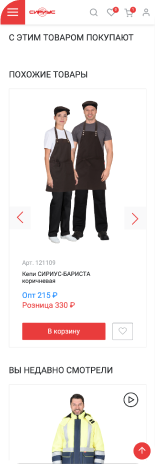
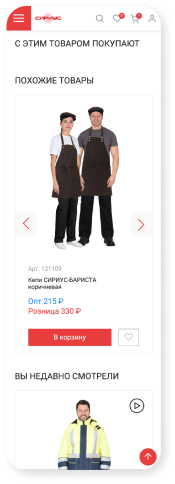
1208-1800

diff --git a/src/js/files/sliders.js b/src/js/files/sliders.js
@@ -28,12 +28,12 @@ import "../../scss/base/swiper.scss";
 function initSliders() {
 //Список слайдеров
 //Проверяем, есть ли слайдер на странице
-	if (document.querySelector('.swiper')) { //Указываем класс нужного слайдера
+	if (document.querySelector('.marestes__slider')) { //Указываем класс нужного слайдера
 //Создаем слайдер
-		new Swiper('.swiper', { //Указываем класс нужного слайдера
+		new Swiper('.marestes__slider', { //Указываем класс нужного слайдера
             //Подключаем модули слайдера
             //для конкретного случая
-			modules: [Navigation],
+			// modules: [Navigation],
 			observer: true,
 			observeParents: true,
 			slidesPerView: 1,
@@ -41,64 +41,101 @@ function initSliders() {
 			//autoHeight: true,
 			speed: 800,
 
-			//touchRatio: 0,
-			//simulateTouch: false,
-			//loop: true,
-			//preloadImages: false,
-			//lazy: true,
-
-			/*
-			// Эффекты
-			effect: 'fade',
-			autoplay: {
-				delay: 3000,
-				disableOnInteraction: false,
-			},
-			*/
-
-			// Пагинация
-			/*
-			pagination: {
-				el: '.swiper-pagination',
-				clickable: true,
-			},
-			*/
-
-			// Скроллбар
-			/*
-			scrollbar: {
-				el: '.swiper-scrollbar',
-				draggable: true,
-			},
-			*/
+		
 
 			// Кнопки "влево/вправо"
-			navigation: {
-				prevEl: '.swiper-button-prev',
-				nextEl: '.swiper-button-next',
-			},
-			/*
+			// navigation: {
+			// 	prevEl: '.swiper-button-prev',
+			// 	nextEl: '.swiper-button-next',
+			// },
+			
 			// Брейкпоинты
 			breakpoints: {
-				640: {
-					slidesPerView: 1,
-					spaceBetween: 0,
-					autoHeight: true,
+				300: {
+					slidesPerView: 1.4,
+					spaceBetween: 15,
+					loop: true,
+					// autoHeight: true,
 				},
-				768: {
-					slidesPerView: 2,
-					spaceBetween: 20,
-				},
-				992: {
+				// 640: {
+				// 	slidesPerView: 1.4,
+				// 	spaceBetween: 15,
+				// },
+				468: {
 					slidesPerView: 3,
 					spaceBetween: 20,
+					loop: true,
+				},
+				992: {
+					slidesPerView: 4,
+					spaceBetween: 20,
+					loop: true,
+					// autoHeight:true
 				},
 				1268: {
-					slidesPerView: 4,
-					spaceBetween: 30,
+					slidesPerView: 5,
+					spaceBetween: 20,
 				},
 			},
-			*/
+			
+			// События
+			on: {
+
+			}
+		});
+	}
+	if (document.querySelector('.sirius__slider')) { //Указываем класс нужного слайдера
+//Создаем слайдер
+		new Swiper('.sirius__slider', { //Указываем класс нужного слайдера
+            //Подключаем модули слайдера
+            //для конкретного случая
+			// modules: [Navigation],
+			observer: true,
+			observeParents: true,
+			slidesPerView: 'auto',
+			spaceBetween: 5,
+			//autoHeight: true,
+			speed: 800,
+			loop:true,
+
+		
+
+			// Кнопки "влево/вправо"
+			// navigation: {
+			// 	prevEl: '.swiper-button-prev',
+			// 	nextEl: '.swiper-button-next',
+			// },
+			
+			// Брейкпоинты
+			// breakpoints: {
+			// 	300: {
+			// 		slidesPerView: 1.4,
+			// 		spaceBetween: 0,
+			// 		loop: true,
+			// 		// autoHeight: true,
+			// 	},
+			// 	// 640: {
+			// 	// 	slidesPerView: 1.4,
+			// 	// 	spaceBetween: 15,
+			// 	// },
+			// 	468: {
+			// 		slidesPerView: 2.91,
+			// 		spaceBetween: 0,
+			// 		loop: true,
+			// 	},
+			// 	992: {
+			// 		slidesPerView: 5,
+			// 		spaceBetween: 0,
+			// 		loop: true,
+					
+			// 		// autoHeight:true
+			// 	},
+			// 	1268: {
+			// 		slidesPerView: 7,
+			// 		spaceBetween: 0,
+			// 	},
+			// },
+			
 			// События
 			on: {
 

diff --git a/src/Sirius.html b/src/Sirius.html
@@ -337,7 +337,32 @@
 				<section class="page__options options">
 					<div class="options__container cnt">
 						<div class="options__item">
-							<div class="options__galery">
+							<div class="options__slider sirius__slider swiper">
+								<div class="options__wrapper swiper-wrapper">
+									<div class="options__slide options__img swiper-slide">
+										<img src="@img/Sirius/screenshots/s-s-01.png" alt="Image" />
+									</div>
+									<div class="options__slide options__img swiper-slide">
+										<img src="@img/Sirius/screenshots/s-s-02.png" alt="Image" />
+									</div>
+									<div class="options__slide options__img swiper-slide">
+										<img src="@img/Sirius/screenshots/s-s-03.png" alt="Image" />
+									</div>
+									<div class="options__slide options__img swiper-slide">
+										<img src="@img/Sirius/screenshots/s-s-04.png" alt="Image" />
+									</div>
+									<div class="options__slide options__img swiper-slide">
+										<img src="@img/Sirius/screenshots/s-s-05.png" alt="Image" />
+									</div>
+									<div class="options__slide options__img swiper-slide">
+										<img src="@img/Sirius/screenshots/s-s-06.png" alt="Image" />
+									</div>
+									<div class="options__slide options__img swiper-slide">
+										<img src="@img/Sirius/screenshots/s-s-07.png" alt="Image" />
+									</div>
+								</div>
+							</div>
+							<!-- <div class="options__galery">
 								<div class="options__img">
 									<img src="@img/Sirius/screenshots/s-s-01.png" alt="Image" />
 								</div>
@@ -359,7 +384,7 @@
 								<div class="options__img">
 									<img src="@img/Sirius/screenshots/s-s-07.png" alt="Image" />
 								</div>
-							</div>
+							</div> -->
 						</div>
 					</div>
 				</section>

diff --git a/src/Marestes.html b/src/Marestes.html
@@ -387,7 +387,26 @@
 								Мы учли мобильные UX/UI требования, чтобы обеспечить одинаково приятный опыт
 								независимо от устройства.
 							</p>
-							<div class="options__galery">
+							<div class="options__slider marestes__slider swiper">
+								<div class="options__wrapper  swiper-wrapper">
+									<div class="options__slide options__img swiper-slide">
+										<img src="@img/Marestes/options/01.png" alt="Image" />
+									</div>
+									<div class="options__slide options__img swiper-slide">
+										<img src="@img/Marestes/options/02.png" alt="Image" />
+									</div>
+									<div class="options__slide options__img swiper-slide">
+										<img src="@img/Marestes/options/03.png" alt="Image" />
+									</div>
+									<div class="options__slide options__img swiper-slide">
+										<img src="@img/Marestes/options/04.png" alt="Image" />
+									</div>
+									<div class="options__slide options__img swiper-slide">
+										<img src="@img/Marestes/options/05.png" alt="Image" />
+									</div>
+								</div>
+							</div>
+							<!-- <div class="options__galery">
 								<div class="options__img">
 									<img src="@img/Marestes/options/01.png" alt="Image" />
 								</div>
@@ -403,7 +422,7 @@
 								<div class="options__img">
 									<img src="@img/Marestes/options/05.png" alt="Image" />
 								</div>
-							</div>
+							</div> -->
 						</div>
 					</div>
 				</section>

diff --git a/src/js/app.js b/src/js/app.js
@@ -168,7 +168,7 @@ flsForms.formFieldsInit({
 Документация плагина: https://swiperjs.com/
 Сниппет(HTML): swiper
 */
-// import "./files/sliders.js";
+ import "./files/sliders.js";
 
 // ========================================================================================================================================================================================================================================================
 // Модули работы с прокруткой страницы ========================================================================================================================================================================================================================================================

diff --git a/src/scss/sirius.scss b/src/scss/sirius.scss
@@ -285,20 +285,25 @@
 			}
 
 			&__galery {
-				gap: 1.125rem;
-				justify-content: space-between;
-				align-items: center;
+				// gap: 1.125rem;
+				// justify-content: space-between;
+				// align-items: center;
 			}
 
 			&__img {
-				box-shadow: 0.25rem 0.25rem 0.625rem 0 rgba(0, 0, 0, 0.15);
-				border-radius: 1.25rem;
+				// overflow: hidden;
+				// padding: 10px;
+				img {
+					// box-shadow: 0.25rem 0.25rem 0.625rem 0 rgba(0, 0, 0, 0.15);
+					// border-radius: 1.25rem;
+
+				}
 				&[class] {
-					flex: 0 0 auto;
+					// flex: 0 0 auto;
 				}
 				&_iphone {
-					box-shadow: initial;
-					border-radius: initial;
+					// box-shadow: initial;
+					// border-radius: initial;
 				}
 			}
 		}

diff --git a/src/scss/marestes.scss b/src/scss/marestes.scss
@@ -526,7 +526,7 @@
 		position: relative;
 		position: absolute;
 		width: 100%;
-		bottom: -0.25rem;
+		bottom: -0.35rem;
 	}
 	.page {
 		&__advantages {
@@ -604,11 +604,11 @@
 		}
 
 		&__img {
-			border-radius: 2.1875rem;
+			border-radius: 0.6875rem;
 			overflow: hidden;
-			@media (max-width: $mobile) {
-				border-radius: 0.375rem;
-			}
+			// @media (max-width: $mobile) {
+			// 	border-radius: 0.375rem;
+			// }
 		}
 
 		&__galery {
@@ -627,6 +627,12 @@
 			@media (max-width: $mobile) {
 				margin-inline: -0.9375rem;
 				overflow-x: auto;
+			}
+		}
+
+		&__slider {
+			@media (max-width:$tablet){
+				 margin-inline: -0.9375rem; 
 			}
 		}
 	}

diff --git a/src/scss/header.scss b/src/scss/header.scss
@@ -12,6 +12,10 @@
 				padding-bottom: 2.5rem;
 			}
 		}
+		.menu {
+			display: flex;
+			align-items: center;
+		}
 	}
 
 	.menu {
